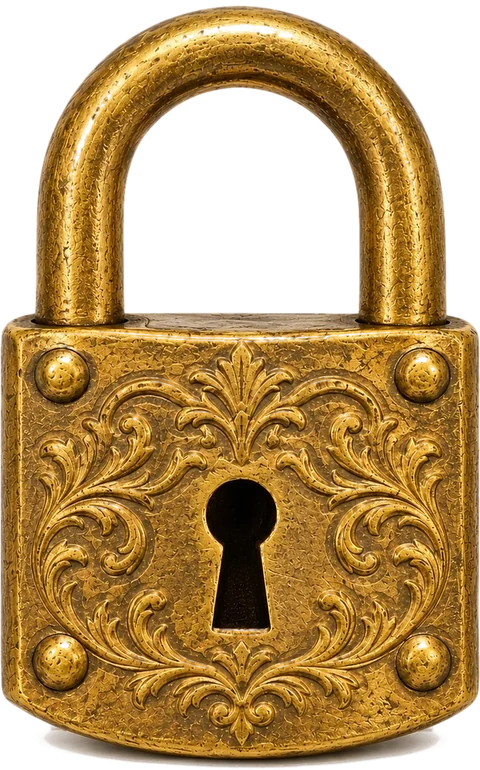
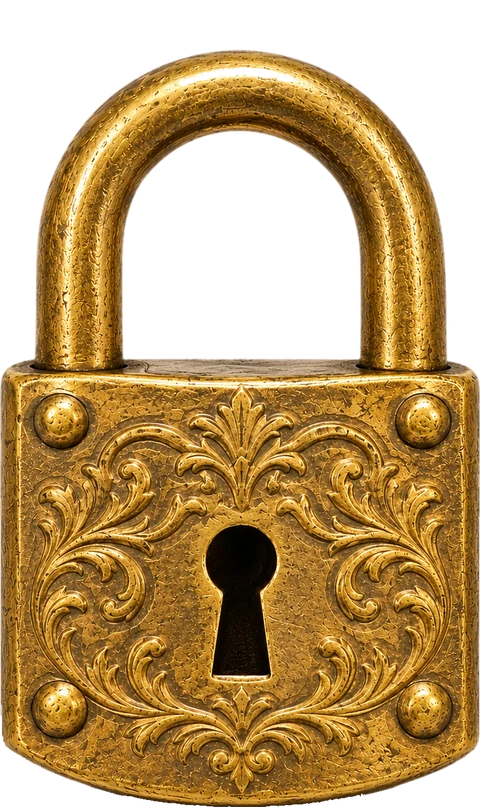
update design

diff --git a/public/js/auth.js b/public/js/auth.js
@@ -116,13 +116,13 @@
   }
 
   /* ---------- contenido privado: se inyecta solo tras el login ---------- */
-  function open(html, url) {
+  function open(html, url, pause) {
+    if (pause == null) pause = 1400; // pausa para ver la puerta cerrada con el candado
     main.innerHTML = html;
     var a = $("cal");
     if (a && /^https:\/\//i.test(url || "")) a.href = url;
     signAssets();
     startWatch();
-    root.classList.remove("locked");
     g.classList.add("out");
     setTimeout(function () {
       g.hidden = true;
@@ -130,12 +130,15 @@
     if (window.lnReveal) window.lnReveal(main);
     scrollTo(0, 0);
     var lk = $("lock");
-    if (lk) {
-      lk.classList.add("open");
-      setTimeout(function () {
-        lk.remove();
-      }, 2400);
-    }
+    setTimeout(function () {
+      root.classList.remove("locked");
+      if (lk) {
+        lk.classList.add("open");
+        setTimeout(function () {
+          lk.remove();
+        }, 2400);
+      }
+    }, pause);
     var col = document.querySelector("footer .f > div:nth-child(2)");
     if (col) {
       var o = document.createElement("a");
@@ -285,7 +288,7 @@
     var t = localStorage.getItem(TOK);
     if (t) {
       var r = (await sb.rpc("get_private", { p_token: t })).data;
-      if (r && r.ok) return open(r.html, r.booking_url);
+      if (r && r.ok) return open(r.html, r.booking_url, 700);
       if (r && r.reason === "session") {
         await signOutLocal();
         say("Tu acceso se ha abierto en otro dispositivo. Vuelve a entrar.", 1);

diff --git a/public/css/styles.css b/public/css/styles.css
@@ -158,7 +158,9 @@ nav {
   right: 0;
   text-align: center;
   color: #3b1d6e;
-  font: 400 1.7rem var(--script);
+  font: 700 0.95rem var(--display);
+  letter-spacing: 0.22em;
+  text-transform: uppercase;
 }
 .hint::after {
   content: "";
@@ -813,9 +815,9 @@ html.locked .stage {
 .pad {
   position: absolute;
   left: 50%;
-  top: 25%;
+  bottom: 4.3%;
   width: 30%;
-  transform: translate(-50%, -50%);
+  transform: translateX(-50%);
   transition:
     transform 0.9s cubic-bezier(0.55, 0, 0.9, 0.5) 0.55s,
     opacity 0.35s 1.05s;
@@ -842,7 +844,7 @@ html.locked .stage {
   opacity: 1;
 }
 .lock.open .pad {
-  transform: translate(-50%, calc(-50% + 70vh)) rotate(8deg);
+  transform: translate(-50%, 70vh) rotate(8deg);
   opacity: 0;
 }
 .lock.open .chains {
